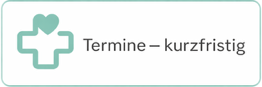
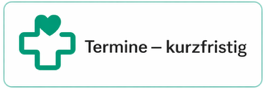
feat: update image for mySmartHealthTermineKurzfristig across multiple layouts for improved branding

Changed region(s): [[0.0611, 0.1609, 0.9466, 0.8046], [0.0, 0.0, 1.0, 1.0]]

diff --git a/app/notfalle/layout.tsx b/app/notfalle/layout.tsx
@@ -12,7 +12,7 @@ export default async function SmartHealthLayout({ children }: { children: React.
       <MySmartHealth />
       <ProfileSearchToggle className="max-w-5xl w-full" />
       <CategoryButton name={CATEGORY_NAMES.theLeadingDoctors.name} goTo={CATEGORY_NAMES.theLeadingDoctors.link} imageAsTitle="/the-leading-doctors.png" />
-      <CategoryButton name={CATEGORY_NAMES.mySmartHealthTermineKurzfristig.name} goTo={CATEGORY_NAMES.mySmartHealthTermineKurzfristig.link} imageAsTitle="/termine-kurzfristig-neutral.png" />
+      <CategoryButton name={CATEGORY_NAMES.mySmartHealthTermineKurzfristig.name} goTo={CATEGORY_NAMES.mySmartHealthTermineKurzfristig.link} imageAsTitle="/Termine-Kurzfristig.png" />
       <CategoryButton name={CATEGORY_NAMES.smartHealth.name} icon="/icon3.png" goTo={CATEGORY_NAMES.smartHealth.link} />
       <CategoryButton name={CATEGORY_NAMES.medizinUndPflege.name} icon="/icon4.png" goTo={CATEGORY_NAMES.medizinUndPflege.link} />
       <CategoryButton name={CATEGORY_NAMES.notfalle.name} icon={<CirclePlus size={34} color="red" />} goTo="/" active />

diff --git a/app/medizin-und-pflege/layout.tsx b/app/medizin-und-pflege/layout.tsx
@@ -12,7 +12,7 @@ export default async function SmartHealthLayout({ children }: { children: React.
       <MySmartHealth />
       <ProfileSearchToggle className="max-w-5xl w-full" />
       <CategoryButton name={CATEGORY_NAMES.theLeadingDoctors.name} goTo={CATEGORY_NAMES.theLeadingDoctors.link} imageAsTitle="/the-leading-doctors.png" />
-      <CategoryButton name={CATEGORY_NAMES.mySmartHealthTermineKurzfristig.name} goTo={CATEGORY_NAMES.mySmartHealthTermineKurzfristig.link} imageAsTitle="/termine-kurzfristig-neutral.png" />
+      <CategoryButton name={CATEGORY_NAMES.mySmartHealthTermineKurzfristig.name} goTo={CATEGORY_NAMES.mySmartHealthTermineKurzfristig.link} imageAsTitle="/Termine-Kurzfristig.png" />
       <CategoryButton name={CATEGORY_NAMES.smartHealth.name} icon="/icon3.png" goTo={CATEGORY_NAMES.smartHealth.link} />
       <CategoryButton name={CATEGORY_NAMES.medizinUndPflege.name} icon="/icon4.png" goTo="/" active />
       <div className="min-h-full w-full max-w-5xl flex flex-col gap-4">

diff --git a/app/the-leading-doctors/layout.tsx b/app/the-leading-doctors/layout.tsx
@@ -15,7 +15,7 @@ export default async function TheLeadingDoctorsLayout({ children }: { children: 
       <div className="min-h-full w-full max-w-5xl flex flex-col gap-4">
         {children}
       </div>
-      <CategoryButton name={CATEGORY_NAMES.mySmartHealthTermineKurzfristig.name} goTo={CATEGORY_NAMES.mySmartHealthTermineKurzfristig.link} imageAsTitle="/termine-kurzfristig-neutral.png" />
+      <CategoryButton name={CATEGORY_NAMES.mySmartHealthTermineKurzfristig.name} goTo={CATEGORY_NAMES.mySmartHealthTermineKurzfristig.link} imageAsTitle="/Termine-Kurzfristig.png" />
       <CategoryButton name={CATEGORY_NAMES.smartHealth.name} icon="/icon3.png" goTo={CATEGORY_NAMES.smartHealth.link} />
       <CategoryButton name={CATEGORY_NAMES.medizinUndPflege.name} icon="/icon4.png" goTo={CATEGORY_NAMES.medizinUndPflege.link} />
       <CategoryButton name={CATEGORY_NAMES.notfalle.name} icon={<CirclePlus size={34} color="red" />} goTo={CATEGORY_NAMES.notfalle.link} />

diff --git a/app/news/layout.tsx b/app/news/layout.tsx
@@ -15,7 +15,7 @@ export default function NewsLayout({ children }: { children: ReactNode }) {
         <CategoryButton name={CATEGORY_NAMES.news.name} icon="/icon2.png" goTo={'/'} active />
       </div>
       {children}
-      <CategoryButton name={CATEGORY_NAMES.theLeadingDoctors.name} goTo={CATEGORY_NAMES.theLeadingDoctors.link} imageAsTitle="/the-leading-doctors.png" />
+      <CategoryButton name={CATEGORY_NAMES.theLeadingDoctors.name} goTo={CATEGORY_NAMES.theLeadingDoctors.link} imageAsTitle="/Termine-Kurzfristig.png" />
       <CategoryButton name={CATEGORY_NAMES.smartHealth.name} icon="/icon3.png" goTo={CATEGORY_NAMES.smartHealth.link} />
       <CategoryButton name={CATEGORY_NAMES.medizinUndPflege.name} icon="/icon4.png" goTo={CATEGORY_NAMES.medizinUndPflege.link} />
       <CategoryButton name={CATEGORY_NAMES.notfalle.name} icon={<CirclePlus size={34} color="red" />} goTo={CATEGORY_NAMES.notfalle.link} />

diff --git a/app/smart-health/layout.tsx b/app/smart-health/layout.tsx
@@ -12,7 +12,7 @@ export default async function SmartHealthLayout({ children }: { children: React.
       <MySmartHealth />
       <ProfileSearchToggle className="max-w-5xl w-full" />
       <CategoryButton name={CATEGORY_NAMES.theLeadingDoctors.name} goTo={CATEGORY_NAMES.theLeadingDoctors.link} imageAsTitle="/the-leading-doctors.png" />
-      <CategoryButton name={CATEGORY_NAMES.mySmartHealthTermineKurzfristig.name} goTo={CATEGORY_NAMES.mySmartHealthTermineKurzfristig.link} imageAsTitle="/termine-kurzfristig-neutral.png" />
+      <CategoryButton name={CATEGORY_NAMES.mySmartHealthTermineKurzfristig.name} goTo={CATEGORY_NAMES.mySmartHealthTermineKurzfristig.link} imageAsTitle="/Termine-Kurzfristig.png" />
       <CategoryButton name={CATEGORY_NAMES.smartHealth.name} icon="/icon3.png" goTo='/' active />
       <div className="min-h-full w-full max-w-5xl flex flex-col gap-4">
         {children}
